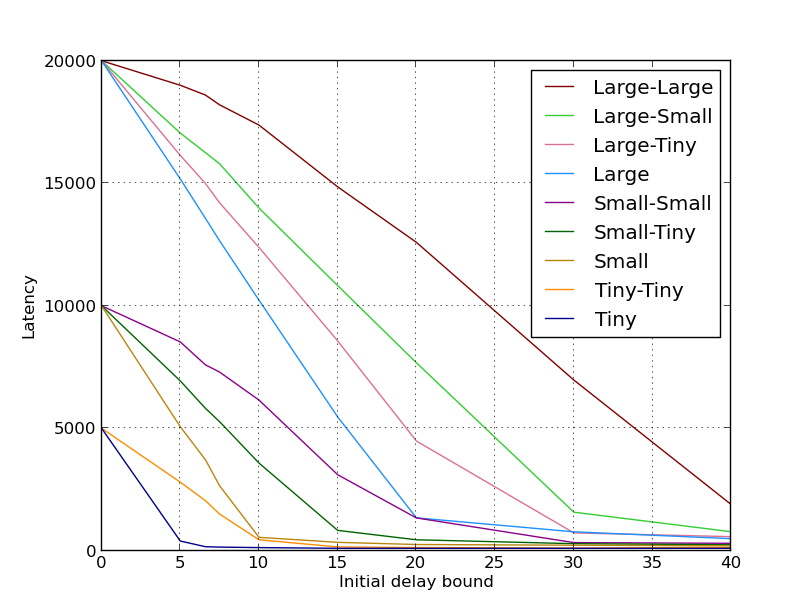
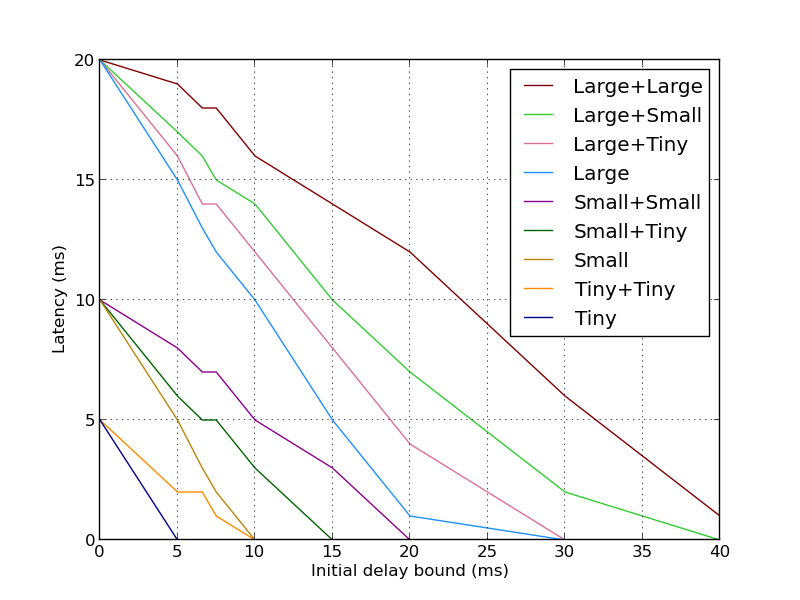
Added units to the figures

diff --git a/Chapters/Scheduling.tex b/Chapters/Scheduling.tex
@@ -606,9 +606,9 @@ One can see that the size of the highest spike is reduced significantly with the
 
 \subsubsection*{Global scheduling}
 
-We repeated the simulation experiment for the global scheduling in the testbed. The setup was similar: 400 applications running on 40 nodes that publish one histogram in a time slot. The size of the histogram was chosen We ran this experiment with only one histogram for each of the three size classes. 
+We repeated the simulation experiment for the global scheduling in the testbed. The setup was similar: 400 applications running on 40 nodes that publish one histogram in a time slot. The size of the histogram was chosen according to the three size classes identified in table \ref{tab:histosize}. 
 
-On the latency graph we can see again a threshold after which the decrease in latency becomes considerably smaller. For example, we can see in the figure \ref{fig:one_slot_tbed} that in the case of a large histogram it is 25 ms. However, the threshold is bigger than in the simulation due to other secondary sources of contention besides IS server threads that were not modelled. Among these sources we can mention various networking equipments and memory bandwidth in the IS server.
+We can see that the figure \ref{fig:one_slot_tbed} follows the same pattern as figures \ref{fig:one_slot_sim_latency} and \ref{fig:one_slot_sim_skew}. The only difference is the case of the large histogram when the IS server experiences bigger latencies under heavy load.
 
 \begin{figure}[ht]
 \centering
